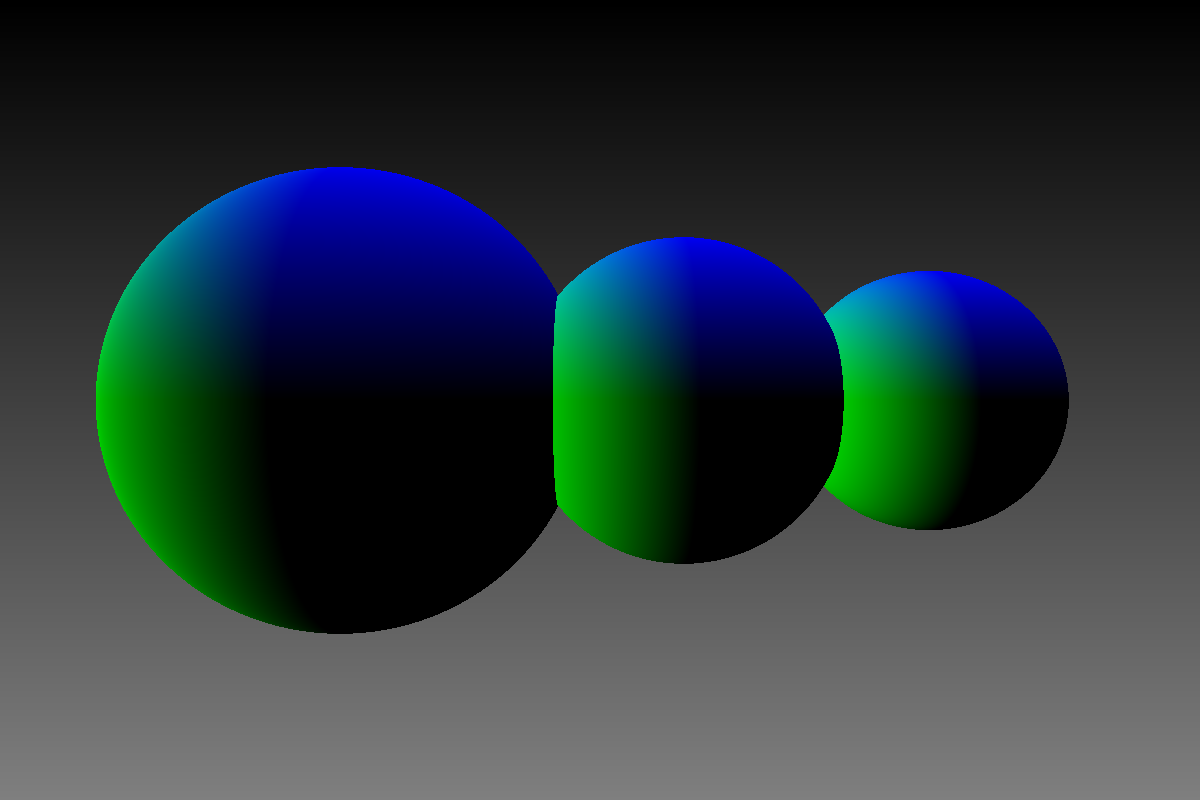
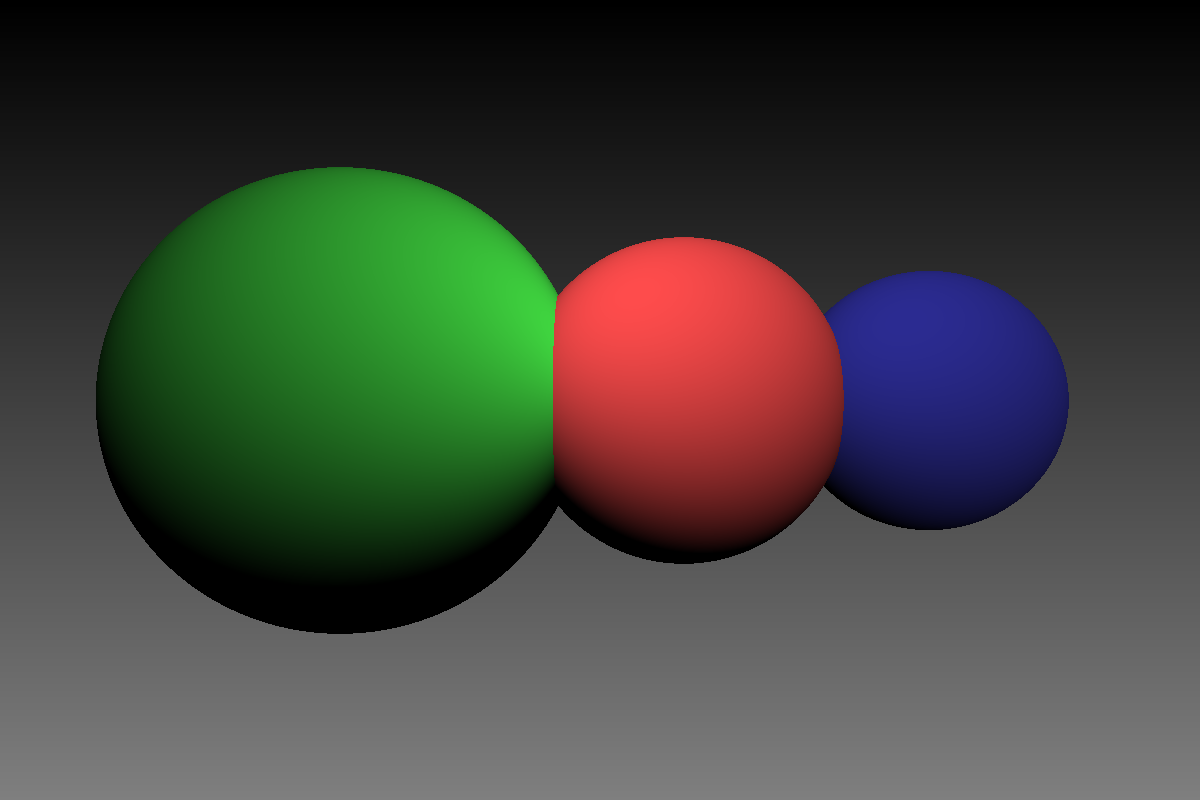
light attendance

Changed region(s): [[0.0617, 0.1875, 0.8942, 0.7812]]

diff --git a/render.go b/render.go
@@ -5,8 +5,8 @@ import (
 	"image"
 	"./util"
 	"./color"
-	. "./core")
-
+	. "./core"
+)
 
 func render(ObjectArray []geometry.Sphere, cam_or Vec, WIDTH, HEIGHT int) {
 
@@ -22,15 +22,15 @@ func render(ObjectArray []geometry.Sphere, cam_or Vec, WIDTH, HEIGHT int) {
 		for y := 0; y < HEIGHT; y++ {
 
 			//Map X and Y from -0.5 to 0.5 and respect Aspect Ratio 1- for correct rotation
-			X := 1-float64(x)/float64(WIDTH) - 0.5
-			Y := 1-float64(y)/float64(HEIGHT) - 0.5
+			X := 1 - float64(x)/float64(WIDTH) - 0.5
+			Y := 1 - float64(y)/float64(HEIGHT) - 0.5
 			X *= ASPECT_RATIO
 
 			//Background Color
-			col := color.Gray32(float32(-Y+0.5)*0.5).Clamped()
+			col := color.Gray32(float32(-Y+0.5) * 0.5).Clamped()
 
 			//Shoot Ray through each Pixel TODO: Make use of Camera Direction
-			ray := Ray{cam_or, Vec{1,X,Y}.Normalized()}
+			ray := Ray{cam_or, Vec{1, X, Y}.Normalized()}
 
 			intersect := false
 
@@ -43,7 +43,6 @@ func render(ObjectArray []geometry.Sphere, cam_or Vec, WIDTH, HEIGHT int) {
 				//Check for intersection in every Object
 				if currentSphere.Intersect(ray, &t) == true {
 					intersect = true
-
 					//check if new t is smaller then old tmin and set tmin to new t if it is
 					tminOld := tMin
 
@@ -56,14 +55,29 @@ func render(ObjectArray []geometry.Sphere, cam_or Vec, WIDTH, HEIGHT int) {
 			}
 
 			if intersect == true {
-				col = color.Gray32(float32(ObjectHitIndex) / 5)
-				//Show Surface Normal
-				col = color.FromVec(ObjectArray[ObjectHitIndex].GetNormal(ray, tMin))
+				HitPoint := ray.O.Add(ray.D.Multiply(tMin))
+
+				//Light Attendance
+				LightPos := Vec{-4, -1, 3}
+
+				LightAttendance := Dot(HitPoint.Normalized(), LightPos.Normalized())
+
+				colorArray := []color.Color32{
+					color.Color32{1,0.3,0.3},
+					color.Color32{0.3,1,0.3},
+					color.Color32{0.3,0.3,1},
+					}
+
+				//Color Spheres (color multiplied with Light Attendance)
+				col = color.Multiply(colorArray[ObjectHitIndex],color.Gray32(float32(LightAttendance)))
+
+
 				col.Clamp()
+
 			}
 
 			//convert float32 colors to 24 bit (0-255) color and save
-			img.Set(x,y, col.Get24Bit())
+			img.Set(x, y, col.Get24Bit())
 		}
 	}
 	util.SavePNG("testimage", img)

diff --git a/color/blendmodes.go b/color/blendmodes.go
@@ -6,6 +6,15 @@ func Multiply(c1, c2 Color32) Color32 {
 	return Color32{c1.R * c2.R, c1.G * c2.G, c1.B * c2.G}
 }
 
+func Divide(c1, c2 Color32) Color32 {
+	return Color32{c1.R / c2.R, c1.G / c2.G, c1.B / c2.G}
+}
+
+func DivideVal(c1 Color32, val float32) Color32 {
+	return Color32{c1.R / val, c1.G / val, c1.B / val}
+}
+
+
 func Add(c1, c2 Color32) Color32 {
 	return Color32{c1.R + c2.R, c1.G + c2.G, c1.B + c2.G}
 }

diff --git a/geometry/sphere.go b/geometry/sphere.go
@@ -9,8 +9,7 @@ type Sphere struct {
 }
 
 //Returns Normal Vector of Sphere at Hitpoint
-func (S *Sphere) GetNormal(ray Ray, t float64) Vec {
-	HitPoint := ray.O.Add(ray.D.Multiply(t))
+func (S *Sphere) GetNormal(ray Ray, HitPoint Vec) Vec {
 	Nhit := HitPoint.Sub(S.CT).Normalized()
 	return Nhit
 }
